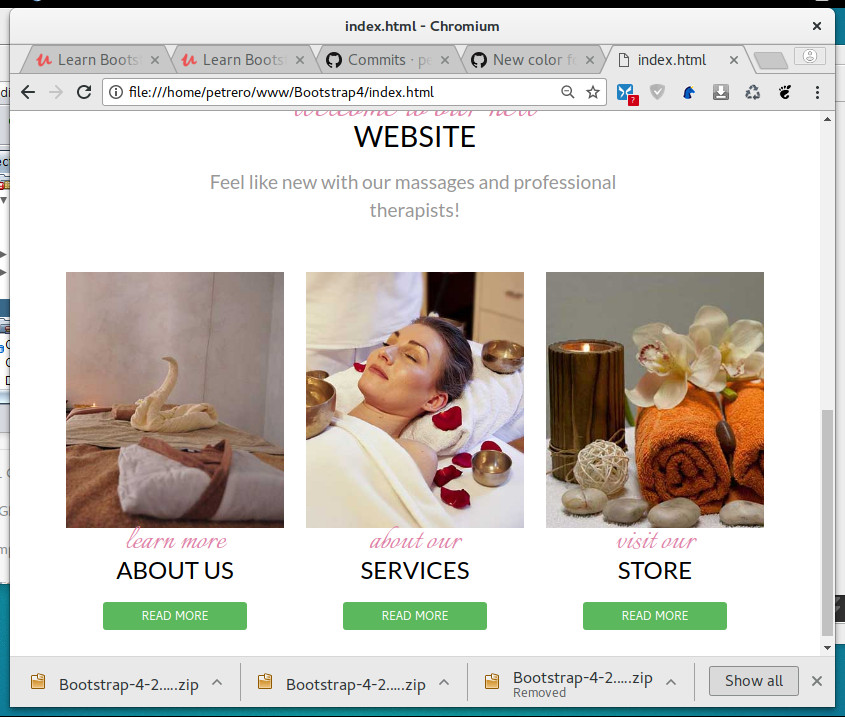
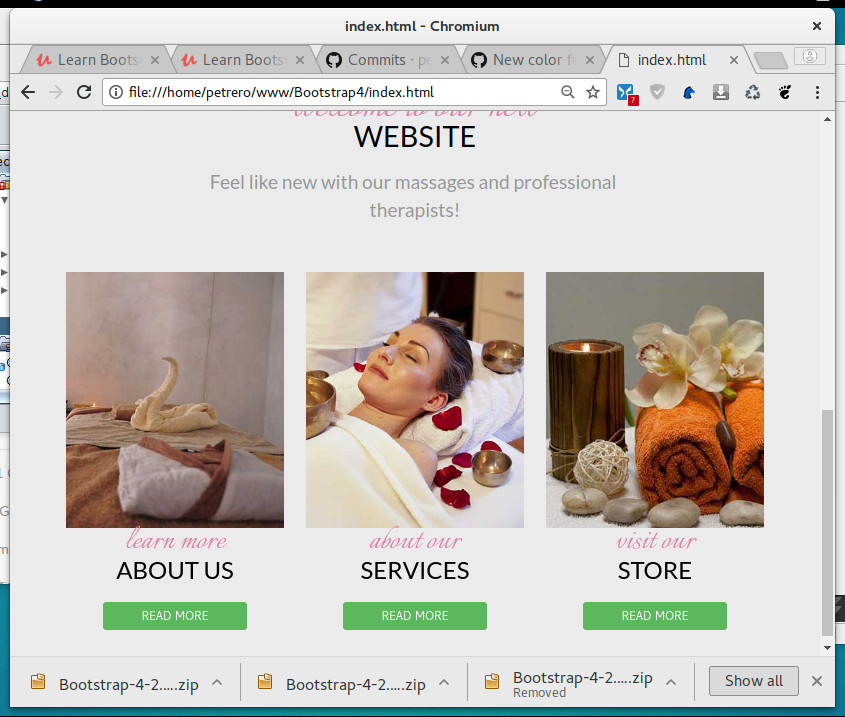
Create some border to our image links

diff --git a/css/styles.css b/css/styles.css
@@ -72,3 +72,8 @@ nav.main-nav .nav-link {
   color: #979797;
   font-family: 'Lato', sans-serif;
 }
+
+/** Image links */
+ .image-links img {
+   border: 6px solid white;
+ } 
